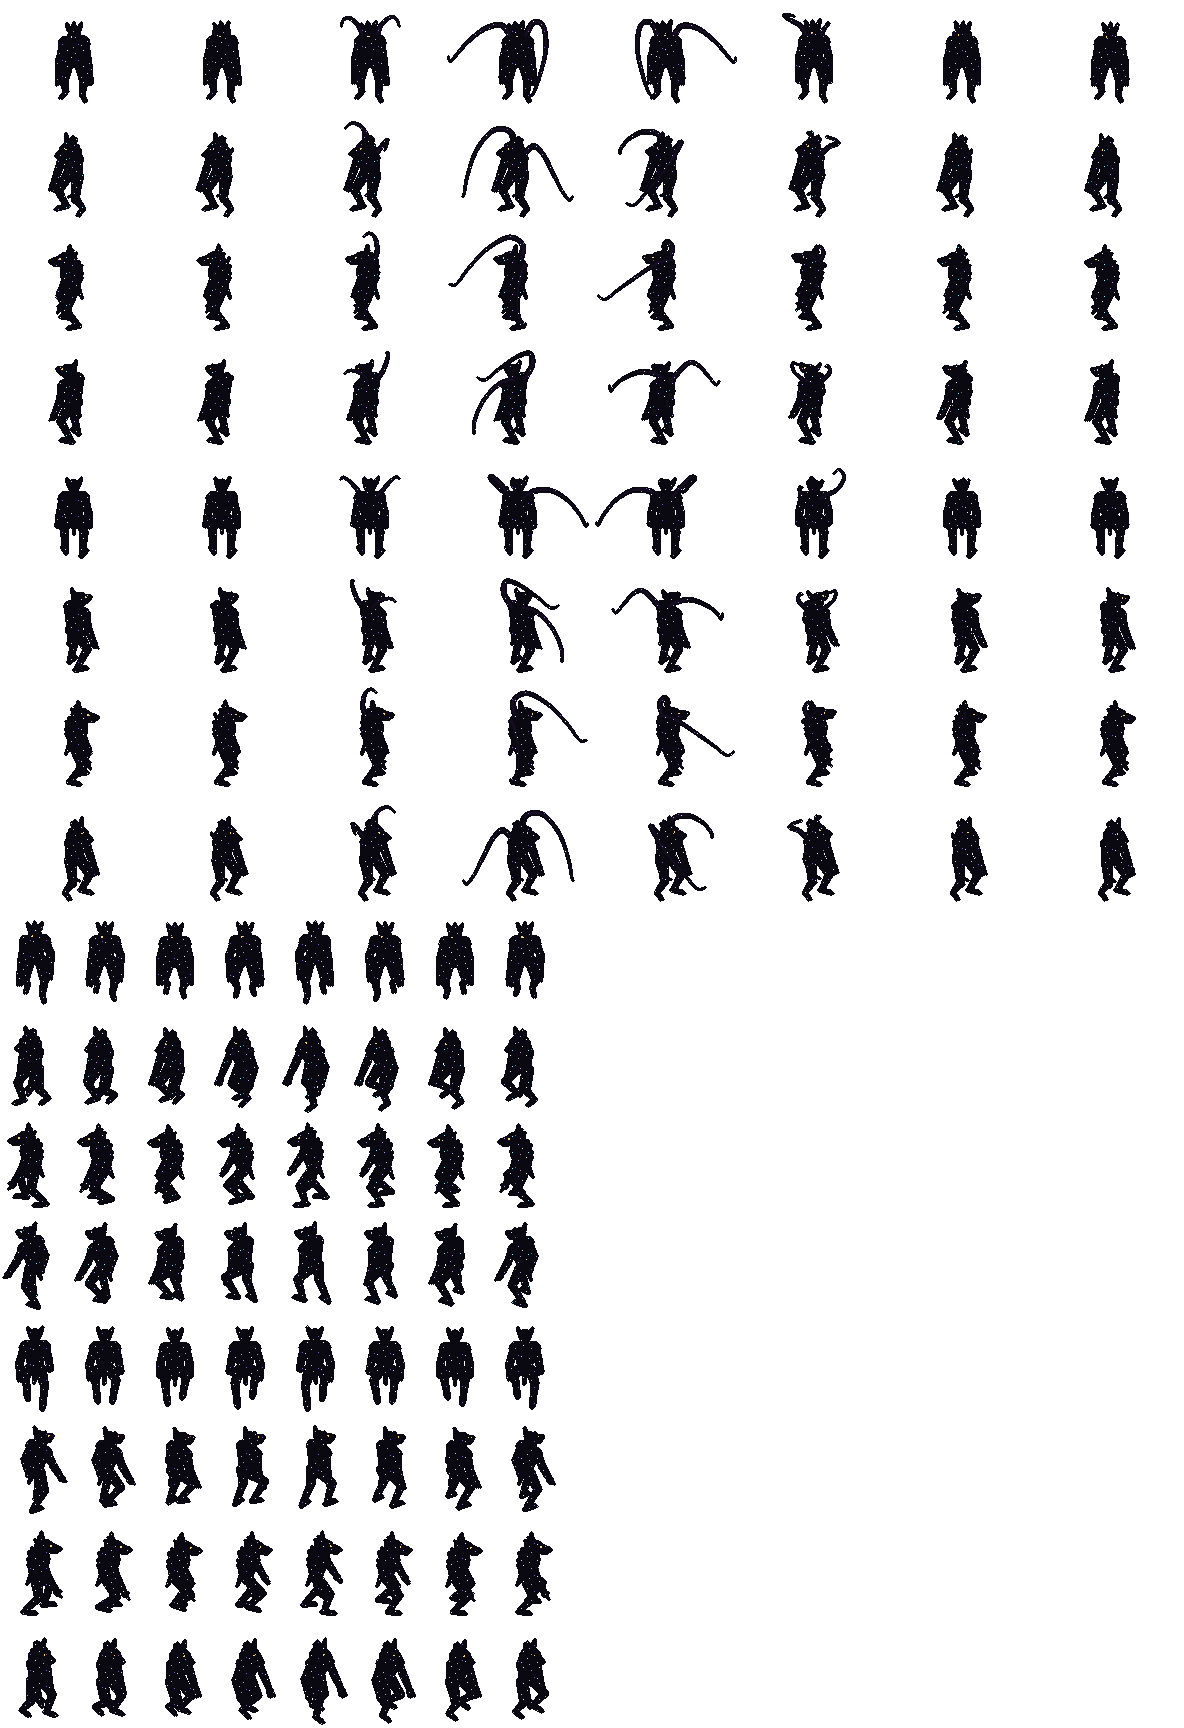
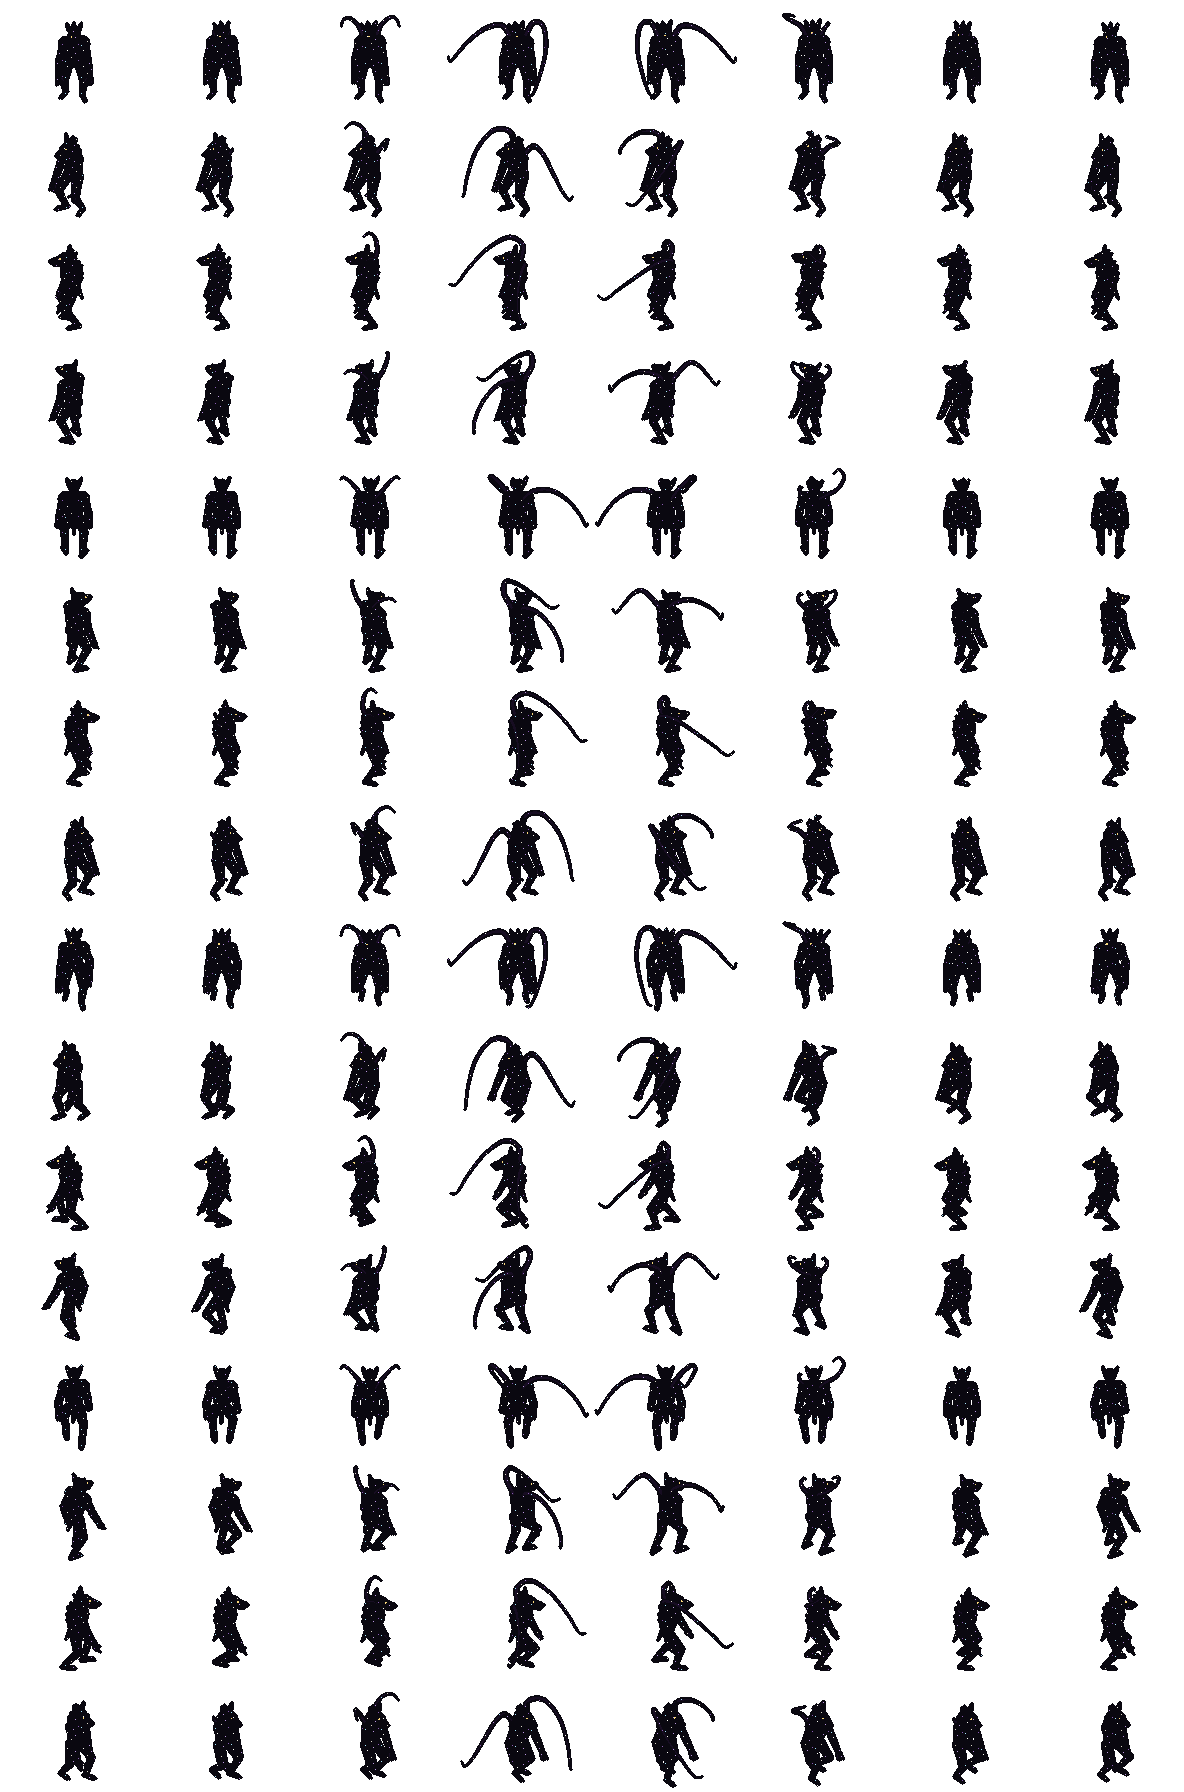
Mr. Ripples' walk carries the tendrils too; PATCHLOG with his words
The tendrils' empty stays whole on the walk row, so the same eight frames of
them run over the stride; the walk's cell is 148 x 110. The sheet and its
still re-laid, the grid's index rebuilt.

diff --git a/js/eyes.js b/js/eyes.js
@@ -196,7 +196,7 @@
       look: 'Your "Tried to get usable dwarf combat art out of the dept, its in Fresh": the art desk\'s ART-141 gate watch, bare-headed in mail with a leaf-headed spear -- idle, walk, the spear attack (thrusts on 3 and 5, overhead on 4), flinch, the fall with the spear let go, prone -- beside the old LPC trooper it replaces (helm, small mace). Both Trooper foes wear it now, the crossbow pair at the Skylights too (no crossbow row: they thrust as the old sheet swung). The drill-sergeant keeps his own. JUDGE: usable? and the spear on the crossbowmen.' },
     'eyes-ripples-walk-1113bw': { pri: 1, group: G2, title: 'MR. RIPPLES: THE FULL-SQUARE LASH AND A FIRST WALK (11-13)', pt: 'the clock lane, 2026-11-13 (the Blender seat; tools/ripples-blend.py, tools/ripples-sheet.py ripples_blend_p1 -- a review sheet, worn by nobody)',
       url: 'deep16/?rows=ripples_blend_p1,mirrorgnoll_p1&beside&fresh=1113bw',
-      look: 'Your "do a full square lash" and "we\'ll need a walk as well i think": on the idle the two tendrils now reach the far half of the next square on frames 4 and 5 (one over the shoulder to the front, one out to the side, then they trade); right arrow to WALK for eight frames of a hunched lope, in place, no tendrils. The 4x stills are deep16/art-src/ripples/. JUDGE: the lash\'s reach, and the walk -- then both go to the art desk as one new set.' },
+      look: 'Your "do a full square lash" and "we\'ll need a walk as well i think": on the idle the two tendrils now reach the far half of the next square on frames 4 and 5 (one over the shoulder to the front, one out to the side, then they trade); right arrow to WALK for eight frames of a hunched lope, in place, the tendrils doing the same over the stride (your "the tendrils would do their thing while he\'s walking too"). The 4x stills are deep16/art-src/ripples/. JUDGE: the lash\'s reach, and the walk. Nothing goes to the art desk for these on your "i dont\' see why we\'re sending it to them if this is what we get back".' },
     'eyes-ripples-tendrils-1113bt': { pri: 1, group: G2, title: 'MR. RIPPLES\' IDLE WITH THE TWO TENDRILS: out of his shoulder blades, a lash, gone by frame 8 (11-13)', pt: 'the clock lane, 2026-11-13 (the Blender seat; tools/ripples-blend.py the tendrils, tools/ripples-sheet.py ripples_blend_p1 -- a review row, worn by nobody)',
       url: 'deep16/?rows=ripples_blend_p1,mirrorgnoll_p1&beside&fresh=1113bt',
       look: 'Your "add two tendrils (where wings would come out on an angelic figure) that aren\'t there in frame 1 or frame 8, but ... verb... out of his shoulder blades and lash nearby during idle": the verb the seat chose is UNSPOOL. Nothing on frame 1; a bud on 2; paid out up and over on 3; the lash on 4 and 5 (his left over the shoulder to the front while his right cracks out to the side, then they trade); curled back on 6; a stub on 7; gone on 8. Black as his hide, the stars through them. The mirror band is no longer baked into this row (the engine runs the ripple). The cell grew to 114 x 114. The 4x still is deep16/art-src/ripples/. JUDGE: the verb, the reach, and the two lash frames -- then the art desk skins them onto its sheet.' },

diff --git a/deep16/data/sprites.js b/deep16/data/sprites.js
@@ -22289,7 +22289,7 @@ true
 "source": "drawn by the art desk (2026-10-19, ART-74: five views, six rows each), cut and snapped by tools/ratswarm-sheet.py; each frame's swarm middle on its square's middle"
 },
 "ripples_blend_p1": {
-"image": "art/ripples_blend_p1.png?v=9be1fcb719",
+"image": "art/ripples_blend_p1.png?v=9cf3f5cf49",
 "fw": 148,
 "fh": 114,
 "ax": 74,
@@ -22307,17 +22307,17 @@ true
 },
 "walk": {
 "y": 912,
-"fw": 70,
-"fh": 102,
-"ax": 35,
-"ay": 90,
+"fw": 148,
+"fh": 110,
+"ax": 74,
+"ay": 97,
 "frames": 8,
 "fps": 10
 }
 },
 "name": "Mr. Ripples (Blender: idle, walk)",
 "hold": [
-"a review sheet: Mr. Ripples' idle with his two tendrils (out of the shoulder blades on 2, a full-square lash on 4 and 5, gone by 8) and his walk (no tendrils), for Griz's eye and the art desk's paint-over -- worn by nobody; no foe row exists for him",
+"a review sheet: Mr. Ripples' idle with his two tendrils (out of the shoulder blades on 2, a full-square lash on 4 and 5, gone by 8) and his walk (the same tendrils over the stride), for Griz's eye and the art desk's paint-over -- worn by nobody; no foe row exists for him",
 "his size (80 rows, the gnoll matriarch's), which socket is empty (his left), no kit, the gold eye are the seat's leans, put to Griz"
 ],
 "source": "built and rendered by tools/ripples-blend.py on the mannequin's bones (11-13), snapped and outlined by tools/pixelate.py; the hide and the stars laid by tools/ripples-sheet.py; S SE E NE N rendered, SW W NW mirrored"

diff --git a/deep16/index.html b/deep16/index.html
@@ -77,7 +77,7 @@
 <script src="js/art.js?v=e1ce4cf012"></script>
 <script src="data/cavern.js?v=647c1a184a"></script>
 <script src="data/maps.js?v=bef56a5de9"></script>
-<script src="data/sprites.js?v=40a75b8fcd"></script>
+<script src="data/sprites.js?v=948eb6bf67"></script>
 <script src="js/sprites.js?v=ac7a3234c4"></script>
 <script src="js/save.js?v=6f0bef3cf5"></script>
 <script src="data/spells.js?v=ae0037fb81"></script>
@@ -176,7 +176,7 @@
 <script src="js/skyshow.js?v=7151daab7a"></script>
 <script src="js/barleyshow.js?v=186123cdd5"></script>
 <script src="js/rulesshow.js?v=23bec5ec39"></script>
-<script src="../js/eyes.js?v=bf9ff5130f"></script>
+<script src="../js/eyes.js?v=4a3b8322f7"></script>
 <script src="../js/tour.js?v=aacb8fc1d3"></script>
 <script src="js/onegallery.js?v=198c5b983d"></script>
 <script src="js/situations16.js?v=f04fedccd1"></script>

diff --git a/tools/ripples-sheet.py b/tools/ripples-sheet.py
@@ -92,7 +92,7 @@ def main():
     pix.write_sheet('ripples_blend_p1', frames, M['fw'], M['fh'], M['ax'], M['ay'], tall, {r: (R[r]['fw'], R[r]['fh'], R[r]['ax'], R[r]['ay']) for r in ROWS})
     p = os.path.join(ART, 'ripples_blend_p1.json'); j = json.load(open(p, encoding='utf-8'))
     j.update(name='Mr. Ripples (Blender: idle, walk)',
-             hold=['a review sheet: Mr. Ripples\' idle with his two tendrils (out of the shoulder blades on 2, a full-square lash on 4 and 5, gone by 8) and his walk (no tendrils), '
+             hold=['a review sheet: Mr. Ripples\' idle with his two tendrils (out of the shoulder blades on 2, a full-square lash on 4 and 5, gone by 8) and his walk (the same tendrils over the stride), '
                    'for Griz\'s eye and the art desk\'s paint-over -- worn by nobody; no foe row exists for him',
                    'his size (80 rows, the gnoll matriarch\'s), which socket is empty (his left), no kit, the gold eye are the seat\'s leans, put to Griz'],
              source='built and rendered by tools/ripples-blend.py on the mannequin\'s bones (11-13), snapped and outlined by tools/pixelate.py; the hide and '
@@ -119,7 +119,7 @@ def main():
                 ims = [Image.open(os.path.join(SRC, r, '%s_%02d.png' % (v, i))).convert('RGBA') for i in range(n)]
                 w, h = ims[0].size; pgm = Image.new('RGBA', (w * n, h + 40), (96, 104, 120, 255)); dd = ImageDraw.Draw(pgm)
                 for i, im in enumerate(ims):
-                    mark = r == 'idle' and i in TEND
+                    mark = i in TEND
                     pgm.alpha_composite(im, (i * w, 0)); dd.text((i * w + w // 2, h + 20), str(i + 1) + (' TENDRILS' if mark else ''), font=font(22), fill=(240, 196, 64) if mark else (226, 232, 244), anchor='mm')
                 pgm.convert('RGB').save(os.path.join(D, 'ripples-%s-model-%s.png' % (r, v)), optimize=True)
                 s = Image.fromarray(np.concatenate(C[r][v], axis=1), 'RGBA'); bg = Image.new('RGBA', s.size, NAVY + (255,)); bg.alpha_composite(s)

diff --git a/tools/ripples-blend.py b/tools/ripples-blend.py
@@ -204,7 +204,7 @@ def build():
     _use = R.use
 
     def use(name):
-        _use(name); troot.scale = (1, 1, 1) if name == 'idle' else (1e-4,) * 3; bpy.context.view_layer.update()
+        _use(name); troot.scale = (1, 1, 1) if name in ('idle', 'walk') else (1e-4,) * 3          # (the walk too, 11-13, his "the tendrils would do their thing while he's walking too": the same eight frames of them over the stride); bpy.context.view_layer.update()
     R.use = use
     return scene, arm, body, tend, dummy, R, vcol
 
@@ -227,7 +227,7 @@ def rows(R):
                     legs={'a': (0.155 * XK * U, -0.07 * U, za, 16, 0), 'b': (-0.155 * XK * U, 0.07 * U, zb, 24, 0)},
                     arms={'a': (0.10 * U, (-0.16 - 0.02 * br) * U, -hang), 'b': (-0.10 * U, (-0.13 + 0.02 * br) * U, -hang)},
                     epolea=(0.5, 0.6, -0.6), epoleb=(-0.5, 0.6, -0.6))
-    S = 0.20          # THE WALK (11-13, his "we'll need a walk as well i think"): eight frames, a loop, in place -- a foot slides back under him over four frames and swings through lifted over four; the hips bob twice, the shoulders turn against the hips, the long arms swing against the legs; hunched lower and further forward than he stands. No tendrils.
+    S = 0.20          # THE WALK (11-13, his "we'll need a walk as well i think"): eight frames, a loop, in place -- a foot slides back under him over four frames and swings through lifted over four; the hips bob twice, the shoulders turn against the hips, the long arms swing against the legs; hunched lower and further forward than he stands. The tendrils unspool and lash over the stride as they do over the idle, frame for frame.
 
     def foot(ph, sx, z0, yaw):
         ph %= 1.0

diff --git a/PATCHLOG.md b/PATCHLOG.md
@@ -3,6 +3,7 @@
 What landed, newest first, one line each: **date · commit · lane · one sentence · his word** when there is one. **A line is a line** (RULED 10-06, on a consult and its fork: 20 of the first 55 ran past 400 characters): the hash, one sentence of what, his words verbatim; the files, the numbers and the why are the bolt's and the commit's. The lines before this rule stand as written. A lane is a live handoff at `..\handoff-*.md`, named by its title (the table at the head of the todo is the list); "the house" is the gate, the build and the repo. When an item lands it is cut from its lane and from `..\dragonsleep-todo-2026-10-03.md` and written here (RULED 2026-10-06, Griz: *"I'm on board"*). The story of each line is in the bolt (`..\weaving-room\dragonsleep-8bit.md`); before 2026-10-03, `git log` and the bolt are the record. A line is never edited once written. A ruling that something stays as it is gets a line too, marked `ruled`.
 
 ## 2026-11-13
+- 2026-11-13 · `e99d76d2` · the clock · Mr. Ripples' lash reaches a full square on frames 4 and 5, and he has a walk row of eight with the same tendrils over the stride (`ripples_blend_p1`: idle 148 x 114, walk 148 x 110); the Blender row is not sent on to the art desk · *"do a full square lash, it's fast enough not to sweat the small stuff (2 and 7)"*; *"we'll need a walk as well i think"*; *"the tendrils would do their thing while he's walking too"*; *"i dont' see why we're sending it to them if this is what we get back"*
 - 2026-11-13 · `4d70e60a` · the bestiary and the looks · Lymen drawn: `lymen_p2`, the art desk's idle, walk, hurt, sit and cast in five views with the attack in hand and its two redrawn frames (art-wanted 57 and 58, now in hand), all eight facings at 48 px, worn by Lymen in place of the LPC `lymen_p0`; the cast cut as it came; `deep16/?rows=lymen_p2,lymen_p0&beside`, eyes `eyes-lymen-drawn-1113c`; `eyes-lymen-attack-8facings-1113h` superseded (unseen); his own five rows (section 59) not back yet · *"lymen pieces in Fresh, casting might make him turn yellow or something, it'll be fun to see"*
 - 2026-11-13 · `4d70e60a` · the clock · Mr. Ripples' idle as the art desk skinned the Blender guide: one page came back, the SE view, cut to the review row `ripples_p1` (SE and its mirror, worn by nobody) beside `ripples_blend_p1`; `deep16/?rows=ripples_p1,ripples_blend_p1&beside`, eyes `eyes-ripples-skin-1113c`; the other four views asked (art-wanted section 60, in the outbox)
 - 2026-11-13 · `1098f857` · the Halfway Inn and the lake · INVESTIGATE on the wagon night waits: the watcher stands in the common room with the wagon still in the yard, the rest plays in front of them at a step out of the house, and the stair (or a bed) is the quiet night as watched · *"run with the leans, I'll complain on playthrough if they land wrong or something :)"*
